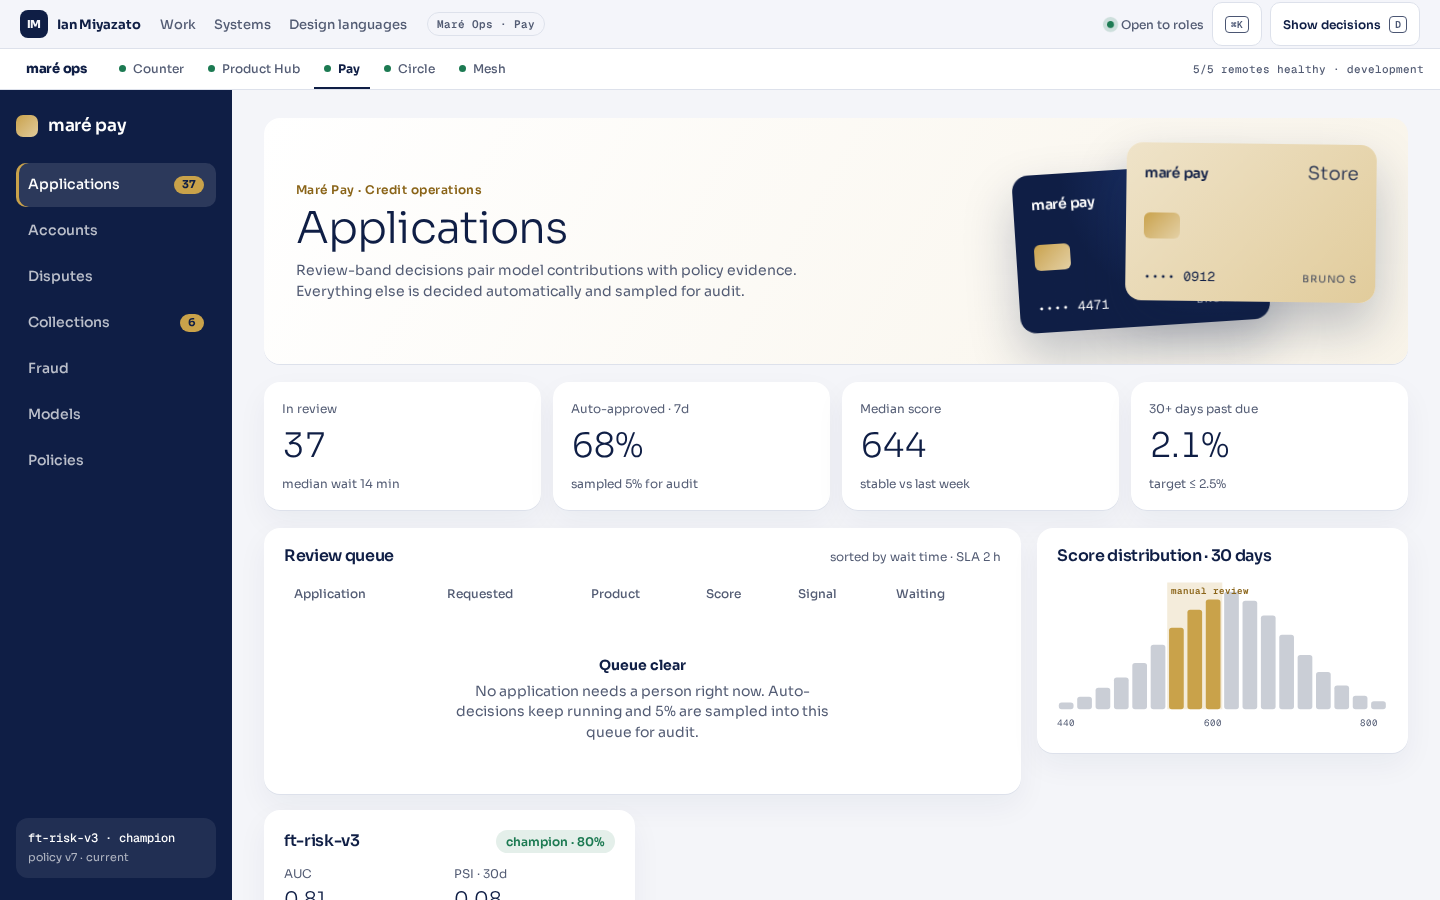
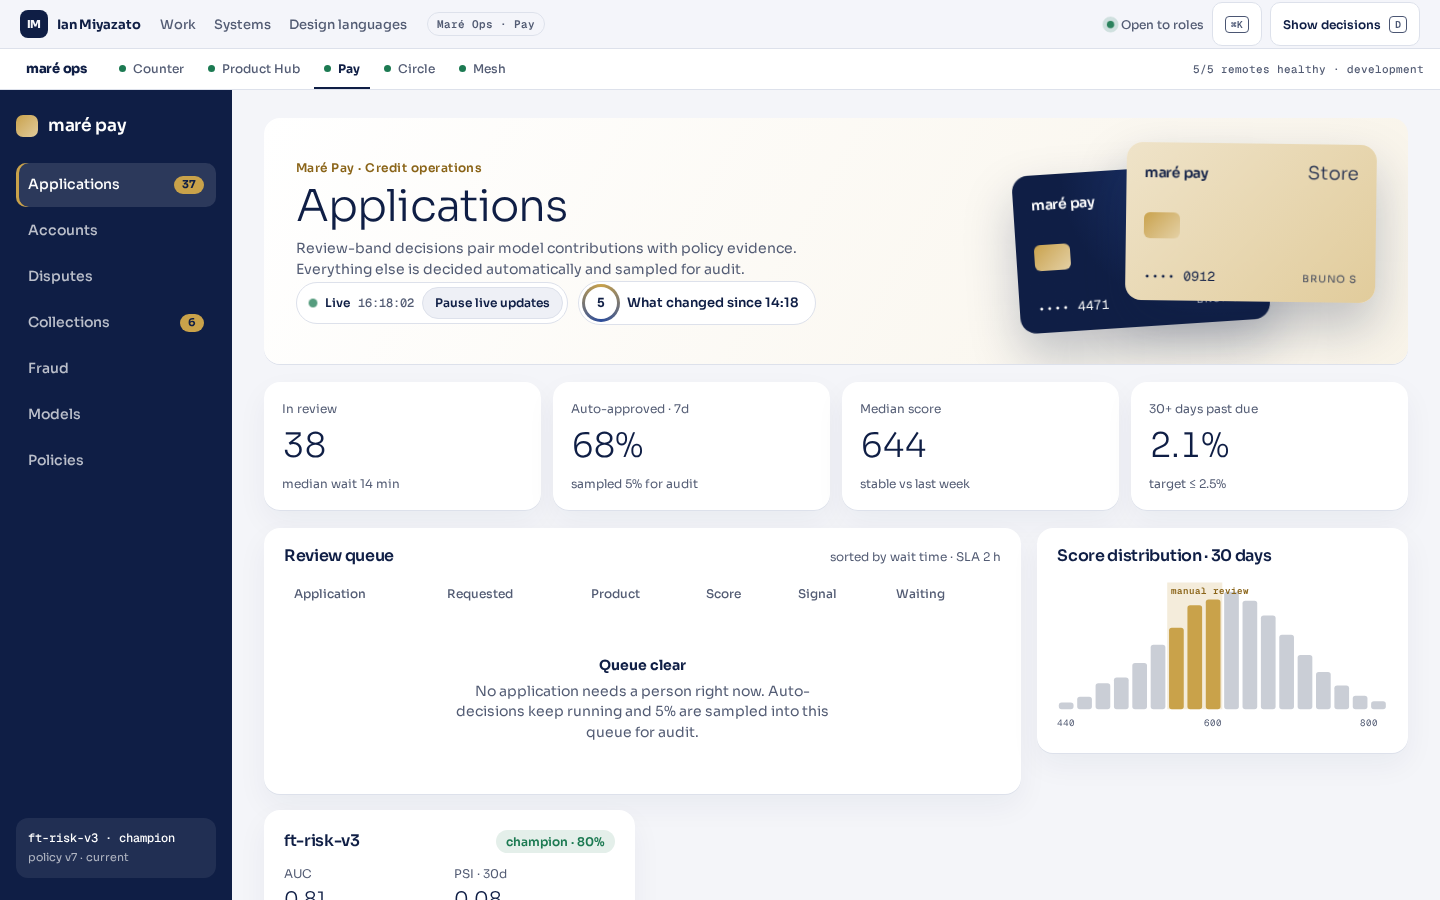
feat(pay): story-style recap of what changed since you left

Changed region(s): [[0.1875, 0.1867, 0.5625, 0.3733]]

diff --git a/remotes/pay/src/Recap.tsx b/remotes/pay/src/Recap.tsx
@@ -1,0 +1,109 @@
+import { Layer, Link, closeLayers, getWorld, openLayer, useParam } from '@portfolio/remote-runtime';
+import { MINUTE, clock } from '@portfolio/world';
+import { useEffect, useMemo, useState } from 'preact/hooks';
+
+const KEY = 'pay:last-visit';
+const FRAME_MS = 5000;
+const reduce = typeof matchMedia !== 'undefined' && matchMedia('(prefers-reduced-motion: reduce)').matches;
+
+type Frame = { id: string; kicker: string; big: string; text: string; href: string; cta: string; tone: 'info' | 'warn' | 'risk' | 'ok' };
+
+/** When the reviewer last opened Pay (sim time), or two hours ago on a first visit. */
+function readSince(now: number) {
+  try {
+    const stored = Number(localStorage.getItem(KEY));
+    if (stored && stored < now) return { since: stored, returning: now - stored > 20 * MINUTE };
+  } catch { /* storage unavailable: treat as a first visit */ }
+  return { since: now - 120 * MINUTE, returning: false };
+}
+
+function framesSince(since: number, now: number): Frame[] {
+  const world = getWorld();
+  const orders = world.between(since, now, ['orders.placed']).filter((event) => event.topic === 'orders.placed' && (event.payload.payment === 'pay-credit' || event.payload.payment === 'pay-store'));
+  const arrived = Math.max(3, Math.round(orders.length / 5));
+  const saturated = world.isFaulted('db-pool', now);
+  return [
+    { id: 'queue', kicker: 'Applications', big: `${arrived} new`, text: `${arrived} credit applications arrived since ${clock(since)}. Most were decided automatically; the review band holds the rest, oldest waiting 41 min.`, href: '/mare/ops/pay', cta: 'Review the queue', tone: 'info' },
+    saturated
+      ? { id: 'latency', kicker: 'Scoring', big: '214 ms', text: 'Scoring p95 is up from 84 ms: credit shares the Orders DB, and its pool has been saturated since 16:02 (deploy #812). Decisions still land inside the 400 ms budget.', href: '/observability', cta: 'Open P-812 in Tidewatch', tone: 'risk' }
+      : { id: 'latency', kicker: 'Scoring', big: '84 ms', text: 'Scoring p95 is back to normal after the Orders DB pool recovered.', href: '/observability', cta: 'See the recovery', tone: 'ok' },
+    { id: 'disputes', kicker: 'Disputes', big: '2 due', text: 'Two chargebacks are due to the card network within 24 hours. One has an evidence pack ready for your approval.', href: '/mare/ops/pay/disputes', cta: 'Open disputes', tone: 'warn' },
+    { id: 'drift', kicker: 'Models', big: 'PSI 0.18', text: 'Drift on the 18–24 cohort rose from 0.11. It warns at 0.20; the challenger is still routing 10%.', href: '/mare/ops/pay/models', cta: 'Open the drift report', tone: 'warn' },
+    { id: 'policy', kicker: 'Policies', big: 'v8', text: 'Policy v8 has one approval and needs a second approver before it goes live.', href: '/mare/ops/pay/policies', cta: 'Review v8', tone: 'info' }
+  ];
+}
+
+/** The ring chip in the header: always there, and it opens the recap. */
+export function RecapChip({ count, since }: { count: number; since: number }) {
+  return (
+    <button type="button" class="py-recap-chip" onClick={() => openLayer({ recap: '1' })} data-anchor="py-recap-chip">
+      <span class="py-recap-ring" aria-hidden="true">{count}</span>
+      What changed since {clock(since)}
+    </button>
+  );
+}
+
+/** Story-style "what changed since you left": one card per change, progress bars, tap or arrow keys. */
+export function useRecap() {
+  const open = useParam('recap') === '1';
+  const [{ since, returning }] = useState(() => readSince(getWorld().now()));
+  const frames = useMemo(() => framesSince(since, getWorld().now()), [since]);
+
+  useEffect(() => {
+    // Opening Pay after a while away plays the recap once per session; the chip replays it any time.
+    let shown = false;
+    try { shown = sessionStorage.getItem('pay:recap-shown') === '1'; } catch { /* ignore */ }
+    if (returning && !shown && !new URLSearchParams(location.search).has('state')) {
+      try { sessionStorage.setItem('pay:recap-shown', '1'); } catch { /* ignore */ }
+      openLayer({ recap: '1' });
+    }
+    const save = () => { try { localStorage.setItem(KEY, String(getWorld().now())); } catch { /* per-viewer convenience only */ } };
+    save();
+    window.addEventListener('pagehide', save);
+    return () => { save(); window.removeEventListener('pagehide', save); };
+  }, []);
+
+  return { open, since, frames };
+}
+
+export function Recap({ frames, since }: { frames: Frame[]; since: number }) {
+  const [index, setIndex] = useState(0);
+  const [paused, setPaused] = useState(false);
+  const close = () => closeLayers(['recap']);
+  const go = (next: number) => (next >= frames.length ? close() : setIndex(Math.max(0, next)));
+
+  useEffect(() => {
+    if (paused || reduce) return;
+    const timer = window.setTimeout(() => go(index + 1), FRAME_MS);
+    return () => window.clearTimeout(timer);
+  }, [index, paused]);
+
+  useEffect(() => {
+    const onKey = (event: KeyboardEvent) => {
+      if (event.key === 'ArrowRight') go(index + 1);
+      if (event.key === 'ArrowLeft') go(index - 1);
+    };
+    window.addEventListener('keydown', onKey);
+    return () => window.removeEventListener('keydown', onKey);
+  }, [index]);
+
+  const frame = frames[index]!;
+  return (
+    <Layer kind="modal" title="What changed since you left" eyebrow={`Since ${clock(since)} · ${index + 1} of ${frames.length}`} onClose={close} width={420} anchor="py-recap" className="py-recap">
+      <div class="py-recap-bars" aria-hidden="true">
+        {frames.map((item, position) => <span key={item.id}><i class={position < index ? 'done' : position === index && !paused && !reduce ? 'now' : position === index ? 'done' : ''} style={{ animationDuration: `${FRAME_MS}ms` }} /></span>)}
+      </div>
+      <article class={`py-recap-card ${frame.tone}`} key={frame.id} aria-live="polite">
+        <span class="py-eyebrow">{frame.kicker}</span>
+        <strong>{frame.big}</strong>
+        <p>{frame.text}</p>
+        {frame.href.startsWith('/observability') ? <a class="py-btn primary" href={frame.href}>{frame.cta}</a> : <Link class="py-btn primary" href={frame.href}>{frame.cta}</Link>}
+      </article>
+      <div class="py-recap-nav">
+        <button type="button" class="py-btn" onClick={() => go(index - 1)} disabled={index === 0}>Previous</button>
+        <button type="button" class="py-btn" aria-pressed={paused} onClick={() => setPaused(!paused)}>{paused ? 'Play' : 'Pause'}</button>
+        <button type="button" class="py-btn" onClick={() => go(index + 1)}>{index === frames.length - 1 ? 'Done' : 'Next'}</button>
+      </div>
+    </Layer>
+  );
+}

diff --git a/remotes/pay/src/styles.css b/remotes/pay/src/styles.css
@@ -408,3 +408,27 @@
   .py-factors li { grid-template-columns: 1fr 60px; }
   .py-diverge { grid-column: 1 / -1; grid-row: 2; }
 }
+
+/* "What changed since you left" recap: story cards over the Applications queue. */
+.py-hero-row { display: flex; flex-wrap: wrap; align-items: center; gap: 10px; }
+.py-recap-chip { display: inline-flex; align-items: center; gap: 10px; min-height: 44px; padding: 0 16px 0 6px; border: 1px solid var(--line); border-radius: 999px; background: var(--surface); color: var(--ink); font-weight: 600; font-size: 13px; }
+.py-recap-ring { position: relative; display: grid; place-items: center; width: 32px; height: 32px; border-radius: 50%; background: var(--surface); font: 700 13px var(--font-mono); isolation: isolate; }
+.py-recap-ring::before { content: ''; position: absolute; inset: -3px; z-index: -1; border-radius: 50%; background: conic-gradient(var(--accent-2), var(--info), var(--accent-2)); }
+.py-recap-ring::after { content: ''; position: absolute; inset: 0; z-index: -1; border-radius: 50%; background: var(--surface); }
+.py-recap .ov-body { display: grid; gap: 14px; }
+.py-recap-bars { display: flex; gap: 4px; }
+.py-recap-bars span { flex: 1; height: 4px; overflow: hidden; border-radius: 4px; background: var(--surface-2); }
+.py-recap-bars i { display: block; height: 100%; background: var(--ink); transform: scaleX(0); transform-origin: left; }
+.py-recap-bars i.done { transform: none; }
+.py-recap-bars i.now { animation: py-recap-fill linear forwards; }
+@keyframes py-recap-fill { to { transform: scaleX(1); } }
+.py-recap-card { display: grid; gap: 10px; min-height: 260px; align-content: end; padding: 22px; border-radius: var(--radius); background: linear-gradient(160deg, color-mix(in srgb, var(--info) 14%, var(--surface)), var(--surface)); animation: rise .35s var(--ease) both; }
+.py-recap-card.warn { background: linear-gradient(160deg, color-mix(in srgb, var(--accent-2) 30%, var(--surface)), var(--surface)); }
+.py-recap-card.risk { background: linear-gradient(160deg, var(--risk-soft), var(--surface)); }
+.py-recap-card.ok { background: linear-gradient(160deg, var(--success-soft), var(--surface)); }
+.py-recap-card strong { font: 300 56px/1 var(--font-display); letter-spacing: -.04em; }
+.py-recap-card p { margin: 0; line-height: 1.5; }
+.py-recap-card .py-btn { justify-self: start; }
+.py-recap-nav { display: flex; justify-content: space-between; gap: 8px; }
+.py-recap-nav .py-btn:disabled { border-style: dashed; color: var(--muted); background: var(--surface-2); }
+@media (prefers-reduced-motion: reduce) { .py-recap-card, .py-recap-bars i.now { animation: none; } }

diff --git a/remotes/pay/src/Applications.tsx b/remotes/pay/src/Applications.tsx
@@ -4,6 +4,7 @@ import { useState } from 'preact/hooks';
 import { applications, bandFor, brl, histogram, REVIEW_BAND, type Application } from './data';
 import { PayCard } from './PayCard';
 import { DeclineLetter } from './Detail';
+import { Recap, RecapChip, useRecap } from './Recap';
 
 /** One in five Maré Pay checkouts from a new customer is a credit application; the score is stable per order. */
 function applicationFrom(event: WorldEvent): Application | null {
@@ -29,6 +30,7 @@ export function Applications() {
   const liveBins = histogram.map((bin) => ({ ...bin, count: bin.count + live.filter((item) => item.score >= bin.from && item.score < bin.from + 20).length * 4 }));
   const maxCount = Math.max(...liveBins.map((bin) => bin.count));
   const sweep = useTween(1, 1400);
+  const recap = useRecap();
   return (
     <main class="py-main">
       <header class="py-hero" data-anchor="py-hero">
@@ -36,7 +38,7 @@ export function Applications() {
           <span class="py-eyebrow">Maré Pay · Credit operations</span>
           <h1>Applications</h1>
           <p>Review-band decisions pair model contributions with policy evidence. Everything else is decided automatically and sampled for audit.</p>
-          <LiveControl anchor="py-applications-live" />
+          <div class="py-hero-row"><LiveControl anchor="py-applications-live" /><RecapChip count={recap.frames.length} since={recap.since} /></div>
         </div>
         <div class="py-hero-cards" aria-hidden="true">
           <PayCard kind="credit" />
@@ -111,6 +113,7 @@ export function Applications() {
           </AiSurface>
         </section>
       </div>
+      {recap.open && <Recap frames={recap.frames} since={recap.since} />}
     </main>
   );
 }

diff --git a/tests/e2e/pay.spec.ts b/tests/e2e/pay.spec.ts
@@ -97,5 +97,27 @@ test.describe('Pay', () => {
     await expect(page.locator('[data-anchor="py-policy-conflict"]')).toBeVisible();
     await expect(page.getByRole('button', { name: 'Request approval' })).toBeDisabled();
   });
-});
 
+  test('the recap replays what changed since you left, story by story', async ({ page }) => {
+    await page.goto('/mare/ops/pay');
+    await page.getByRole('button', { name: /What changed since/ }).click();
+    const recap = page.getByRole('dialog', { name: 'What changed since you left' });
+    await expect(recap.getByText('Applications', { exact: true })).toBeVisible();
+    await recap.getByRole('button', { name: 'Pause' }).click();
+    await recap.getByRole('button', { name: 'Next' }).click();
+    // The default world is mid-incident, so scoring is slow and the card points to Tidewatch.
+    await expect(recap.getByText('214 ms')).toBeVisible();
+    await expect(recap.getByRole('link', { name: 'Open P-812 in Tidewatch' })).toHaveAttribute('href', '/observability');
+    await page.keyboard.press('ArrowRight');
+    await expect(recap.getByText('2 due')).toBeVisible();
+    await page.keyboard.press('Escape');
+    await expect(recap).toBeHidden();
+  });
+
+  test('returning to Pay after a while plays the recap once', async ({ page }) => {
+    await page.addInitScript(() => localStorage.setItem('pay:last-visit', String(Date.parse('2026-09-26T14:00:00-03:00'))));
+    await page.goto('/mare/ops/pay?t=16:18');
+    await expect(page.getByRole('dialog', { name: 'What changed since you left' })).toBeVisible();
+    await expect(page.getByText(/Since 14:00 · 1 of 5/)).toBeVisible();
+  });
+});

diff --git a/docs/agents/changelog.md b/docs/agents/changelog.md
@@ -4,6 +4,8 @@ One line per merged micro-task, newest first.
 
 ## v0.2
 
+- 2026-09-27 · `feat(pay)`: story-style "what changed since you left" recap on the Applications queue: five cards computed from world events since the reviewer's last visit (new applications, scoring latency that follows P-812, disputes due, drift watch, the policy waiting for a second approver), progress bars, Pause, arrow keys, links into each view; plays once per session after 20+ minutes away and replays from a ring chip or `?recap=1`.
+
 - 2026-09-27 · `feat(atlas)`: Academy browse at `/atlas/academy`: billboard for the new *Payments at scale* series (match percentage, Play, My list, pausable SVG preview), Continue watching with progress bars and cards that expand after hover intent or at once on focus to offer Resume and Practice in Arena, a Top 5 row with outlined giant numerals, and generated SVG artwork that re-draws for the member's weakest rubric area (Estimation shows each title's numbers) with a visible, changeable reason. Keyboard focus now wins over a resting pointer in the shop rows too.
 
 - 2026-09-27 · `feat(mare-shop)`: three phone patterns. `/mare/apps/tracking`: map-first live delivery with the courier and ETA computed from the world clock, a bottom sheet with drag, click and arrow-key snap points, progress segments, quick replies to the courier. `/mare/apps/pay`: private by default (masked amounts announced as hidden, eye to reveal), card carousel, recent activity. `/mare/apps/circle-reel`: vertical snap feed where only the visible reel plays, progress bar, double-tap heart burst plus a like button, Pause, floating product tag and a "Shop 3 items" sheet with Add all that credits the creator. Shared apps header with five apps.
